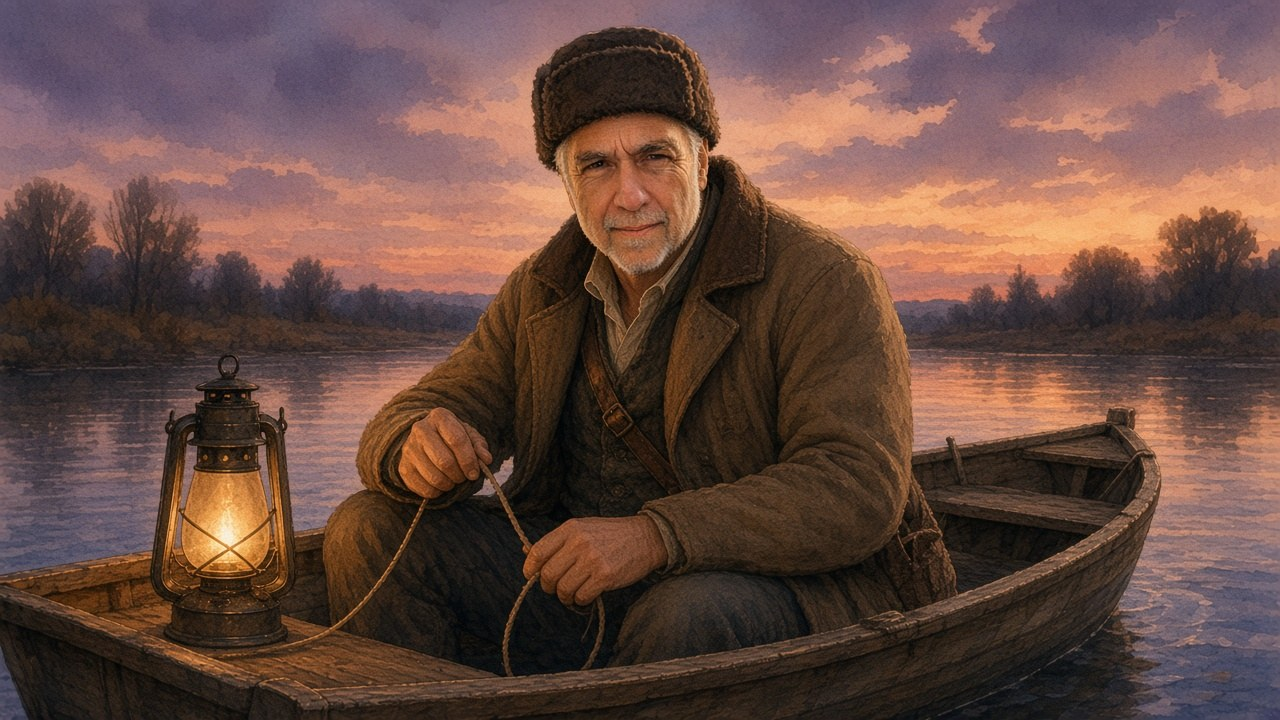
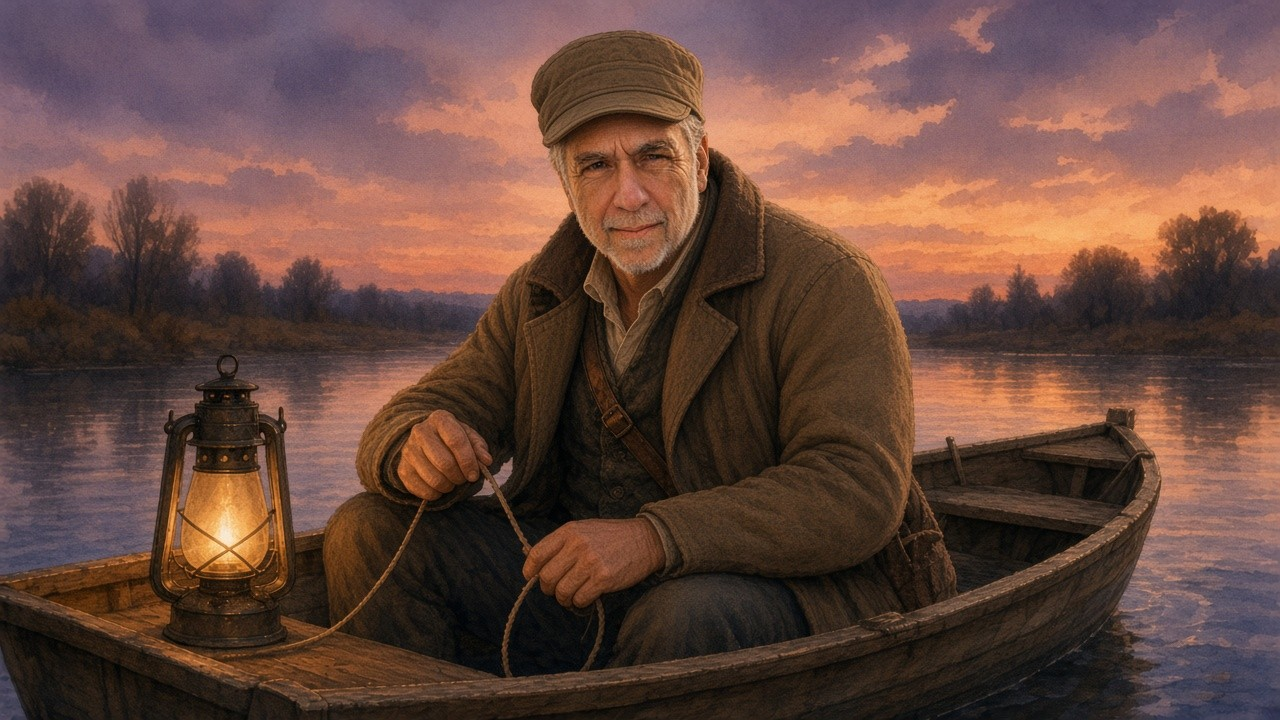
Mirror Soft Story skins: bare Vibelandia, fishing caps, bat-free cave.
- SS Vibelandia bareheaded
- Fishing scenes use short fishing caps
- Bat cave work area with no bats

diff --git a/interfaces/fractisi-holographic-living.html b/interfaces/fractisi-holographic-living.html
@@ -96,12 +96,12 @@
   const scenes = {
     'clark-kent': { id: 'clark-kent', label: 'Clark Kent', blurb: 'Ordinary day', image: MEDIA + 'hl-clark-kent.jpg' },
     superhero: { id: 'superhero', label: 'Superhero', blurb: 'Captain of SS Vibelandia', image: MEDIA + 'hl-superhero.jpg' },
-    vibelandia: { id: 'vibelandia', label: 'SS Vibelandia', blurb: 'Goldilocks cruiseship', image: MEDIA + 'hl-vibelandia.jpg' },
-    'bat-cave': { id: 'bat-cave', label: 'Bat cave', blurb: 'Work-cave', image: MEDIA + 'hl-bat-cave.jpg' },
+    vibelandia: { id: 'vibelandia', label: 'SS Vibelandia', blurb: 'Goldilocks cruiseship', image: MEDIA + 'hl-vibelandia.jpg?v=no-hat' },
+    'bat-cave': { id: 'bat-cave', label: 'Bat cave', blurb: 'Work-cave', image: MEDIA + 'hl-bat-cave.jpg?v=no-bats' },
     'frontier-work': { id: 'frontier-work', label: 'Frontier work', blurb: 'Labor at the edge', image: MEDIA + 'hl-frontier-work.jpg' },
     'duck-hunting': { id: 'duck-hunting', label: 'Duck hunting', blurb: 'Hunt for deliveries', image: MEDIA + 'hl-duck-hunting.jpg' },
-    'big-game-fishing': { id: 'big-game-fishing', label: 'Big game fishing', blurb: 'Tropical marlin · hunt for a sponsor', image: MEDIA + 'hl-big-game-fishing-marlin.jpg?v=soft-hat' },
-    'bottom-fishing': { id: 'bottom-fishing', label: 'Bottom fishing', blurb: 'Lines in deep water', image: MEDIA + 'hl-bottom-fishing.jpg' },
+    'big-game-fishing': { id: 'big-game-fishing', label: 'Big game fishing', blurb: 'Tropical marlin · hunt for a sponsor', image: MEDIA + 'hl-big-game-fishing-marlin.jpg?v=fish-cap' },
+    'bottom-fishing': { id: 'bottom-fishing', label: 'Bottom fishing', blurb: 'Lines in deep water', image: MEDIA + 'hl-bottom-fishing.jpg?v=fish-cap' },
     'whatsapp-root-lab': {
       id: 'whatsapp-root-lab',
       label: 'Root Lab',

diff --git a/interfaces/holographic-scene-catalog.js b/interfaces/holographic-scene-catalog.js
@@ -7,12 +7,12 @@ export const MEDIA = '/interfaces/media/holographic-living/';
 export const SCENES = {
   'clark-kent': { label: 'Clark Kent', blurb: 'Ordinary day', image: MEDIA + 'hl-clark-kent.jpg' },
   superhero: { label: 'Superhero', blurb: 'Captain of SS Vibelandia', image: MEDIA + 'hl-superhero.jpg' },
-  vibelandia: { label: 'SS Vibelandia', blurb: 'Goldilocks cruiseship', image: MEDIA + 'hl-vibelandia.jpg' },
-  'bat-cave': { label: 'Bat cave', blurb: 'Work-cave', image: MEDIA + 'hl-bat-cave.jpg' },
+  vibelandia: { label: 'SS Vibelandia', blurb: 'Goldilocks cruiseship', image: MEDIA + 'hl-vibelandia.jpg?v=no-hat' },
+  'bat-cave': { label: 'Bat cave', blurb: 'Work-cave', image: MEDIA + 'hl-bat-cave.jpg?v=no-bats' },
   'frontier-work': { label: 'Frontier work', blurb: 'Labor at the edge', image: MEDIA + 'hl-frontier-work.jpg' },
   'duck-hunting': { label: 'Duck hunting', blurb: 'Hunt for deliveries', image: MEDIA + 'hl-duck-hunting.jpg' },
-  'big-game-fishing': { label: 'Big game fishing', blurb: 'Tropical marlin · hunt for a sponsor', image: MEDIA + 'hl-big-game-fishing-marlin.jpg?v=soft-hat' },
-  'bottom-fishing': { label: 'Bottom fishing', blurb: 'Lines in deep water', image: MEDIA + 'hl-bottom-fishing.jpg' },
+  'big-game-fishing': { label: 'Big game fishing', blurb: 'Tropical marlin · hunt for a sponsor', image: MEDIA + 'hl-big-game-fishing-marlin.jpg?v=fish-cap' },
+  'bottom-fishing': { label: 'Bottom fishing', blurb: 'Lines in deep water', image: MEDIA + 'hl-bottom-fishing.jpg?v=fish-cap' },
   'whatsapp-root-lab': {
     label: 'Root Lab',
     blurb: 'Root talk on the channel',
